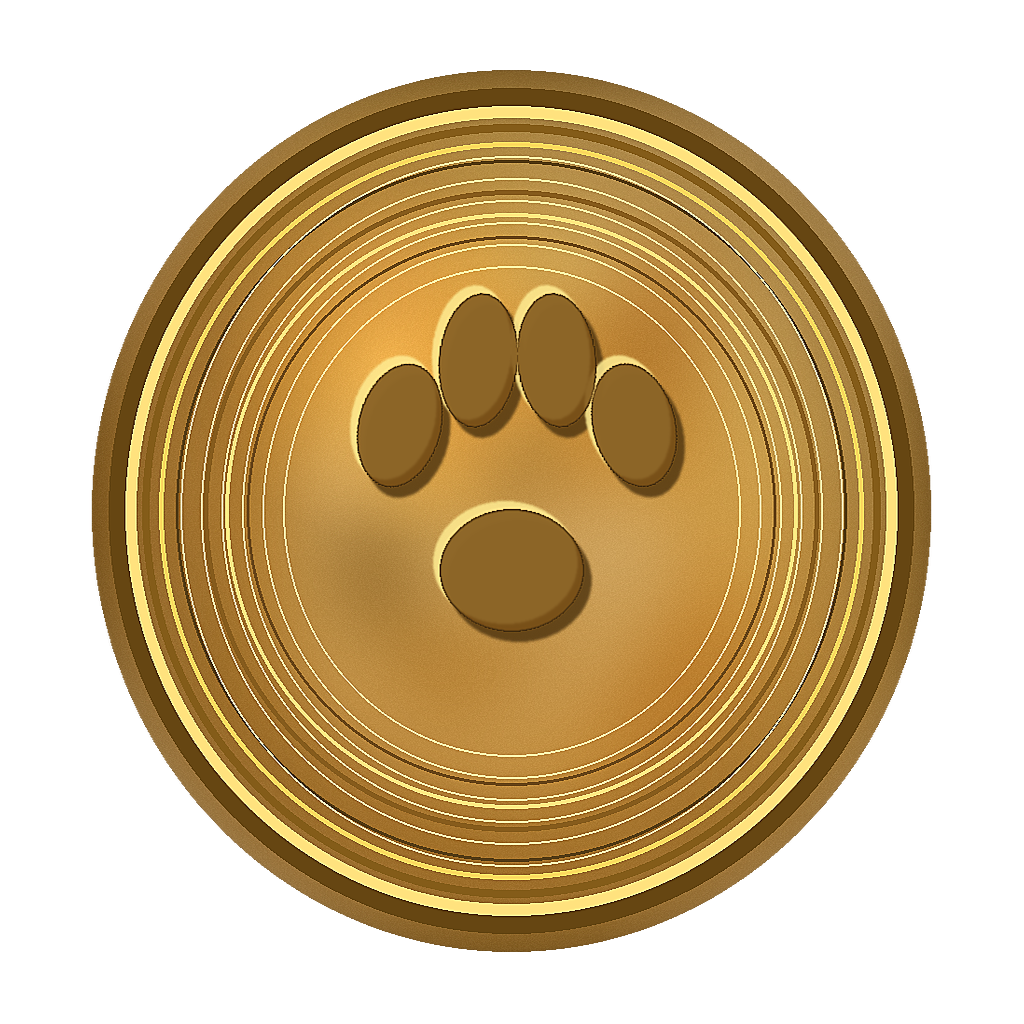
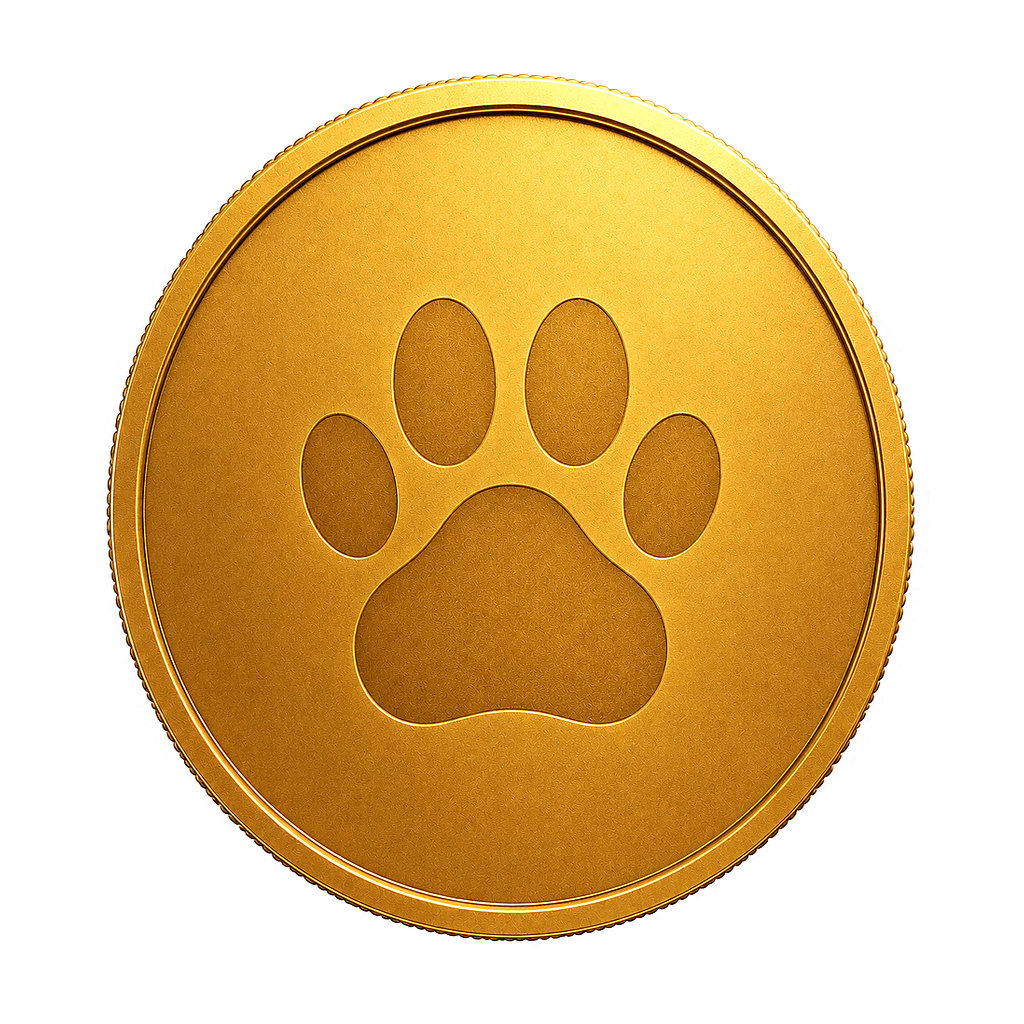
Update petrified coin back master

diff --git a/CURRENT_STATE.md b/CURRENT_STATE.md
@@ -86,6 +86,7 @@ The existing prone-idle V3 animation remains a separate `runtime-candidate` and 
 - Coin faces and all four nine-frame flip sequences are normalized to the same 1024×1024 transparent canvas. `coin-checksums.sha256` covers all 44 coin PNG files.
 - On 2026-08-15, `state-01-vivid` and `state-02-flat` coin backs were updated to use the same clear double pressed rim language as the later back states while preserving the frosted face and paw mark; the vivid/flat flip frames, review preview GIF, and checksums were regenerated.
 - On 2026-08-15, `state-01-vivid` and `state-02-flat` coin fronts were replaced from the local V2.3 coin master JPGs in the external `images_wk/coins` source folder; source JPGs were not committed. Matching gold-luster backs, vivid/flat flip frames, review preview GIF, and checksums were regenerated. All coin faces remain on the shared 1024x1024 transparent canvas and the batch gates remain pending/prototype-only.
+- On 2026-08-15, `state-01-vivid` and `state-02-flat` coin backs were replaced from the local shared back master with the large paw embossing and crisp coin rim style; vivid/flat flip frames, review preview GIF, and checksums were regenerated. The shared 1024x1024 canvas and visible bounds remain unchanged, and gates remain pending/prototype-only.
 - Batch state remains `runtime_validation=pending`, `runtime_approved=false`, `runtime_use=false`, `production_asset=false`, with `prototype_use=true`.
 - Initial magic playback is allowed only through explicit owner entry points (`OwnerContextMenu` and `ControlPanel`) using `BehaviorExecutionMode.PrototypePreview` and the magic behavior whitelist. Pointer interaction is accepted only while the owner-started petrification preview is active.
 - Dialogue, model output, autonomous tick, memory, personality, and normal production behavior requests must not use `PrototypePreview`; they continue to resolve through the normal runtime gate and defer until assets are formally approved.
